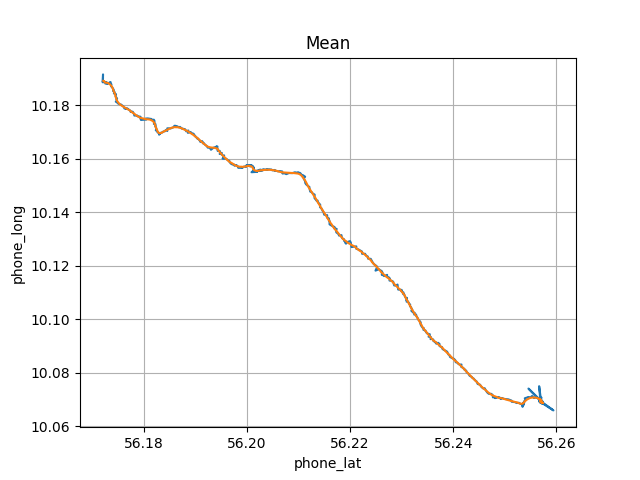
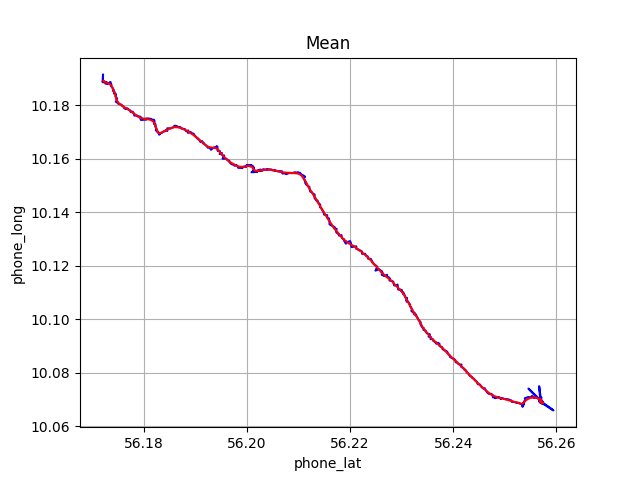
added new colors for mean, median and raw

diff --git a/leaflejs/plotting_data/Median.py b/leaflejs/plotting_data/Median.py
@@ -20,8 +20,8 @@ y_median = y.rolling(10).median()
 
 fig, ax = plt.subplots()
 
-ax.plot(x, y)
-ax.plot(x_median, y_median)
+ax.plot(x, y, color='red')
+ax.plot(x_median, y_median, color='green')
 
 ax.set(xlabel='phone_lat', ylabel='phone_long',
        title='Median')

diff --git a/leaflejs/plotting_data/raw.py b/leaflejs/plotting_data/raw.py
@@ -15,7 +15,7 @@ y = base_df["phone_long"]
 
 fig, ax = plt.subplots()
 
-ax.plot(x, y)
+ax.plot(x, y, color='blue')
 
 ax.set(xlabel='phone_lat', ylabel='phone_long',
        title='Raw')
